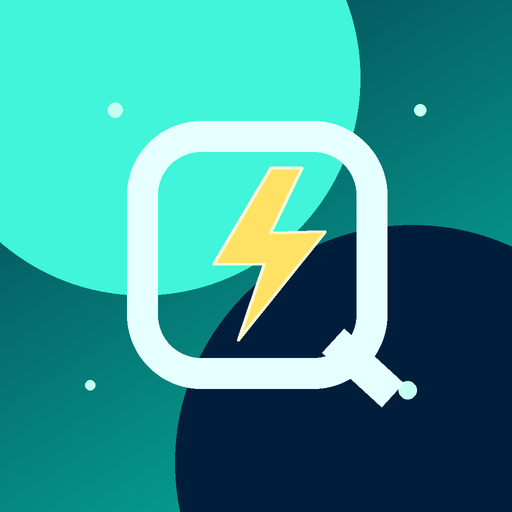
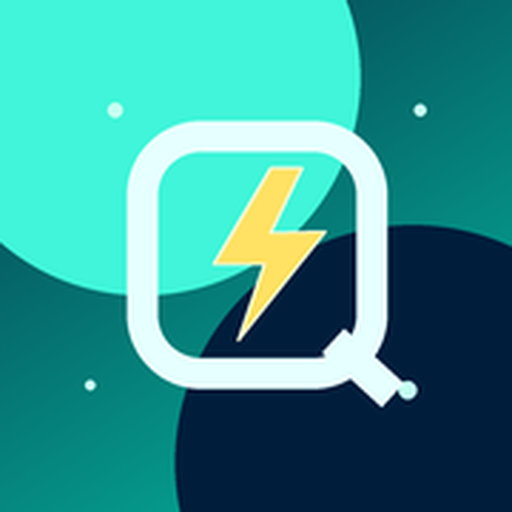
Add files via upload

diff --git a/index.html b/index.html
@@ -192,9 +192,10 @@ a{color:#6fe5d8!important}
 <meta content="default" name="apple-mobile-web-app-status-bar-style"/>
 <meta content="QUIZFORCE" name="apple-mobile-web-app-title"/>
 <meta content="yes" name="mobile-web-app-capable"/>
-<link href="/manifest.webmanifest" rel="manifest"/>
-<link href="/apple-touch-icon.png" rel="apple-touch-icon" sizes="180x180"/>
-<link href="/icon-192.png" rel="icon" sizes="192x192" type="image/png"/>
+<link href="/manifest.webmanifest?v=64" rel="manifest"/>
+<link href="/apple-touch-icon.png?v=64" rel="apple-touch-icon" sizes="180x180"/>
+<link href="/favicon.png?v=64" rel="icon" type="image/png" sizes="48x48"/>
+<link href="/icon-192.png?v=64" rel="icon" sizes="192x192" type="image/png"/>
 <style id="qf-ideas-styles">
 .qf-ideas-widget{margin:18px 0;padding:15px;border:2px solid #31cbbd;border-radius:17px;background:linear-gradient(145deg,#103e4c,#102a42);color:#effffb;text-align:left}
 .qf-ideas-toggle{display:block;width:100%;padding:13px;border-radius:13px;border:1px solid #f7c65c;background:linear-gradient(110deg,#1c6772,#283f77);color:#fff;font-size:17px;font-weight:900;text-align:center}
